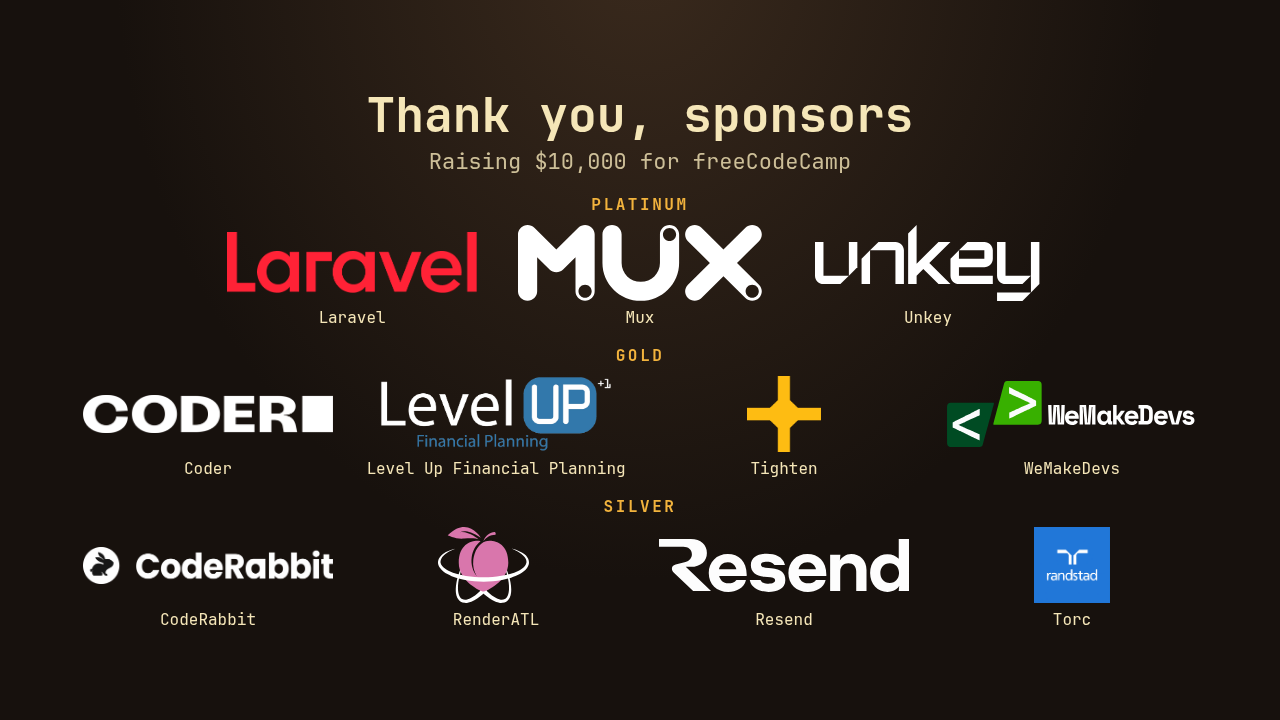
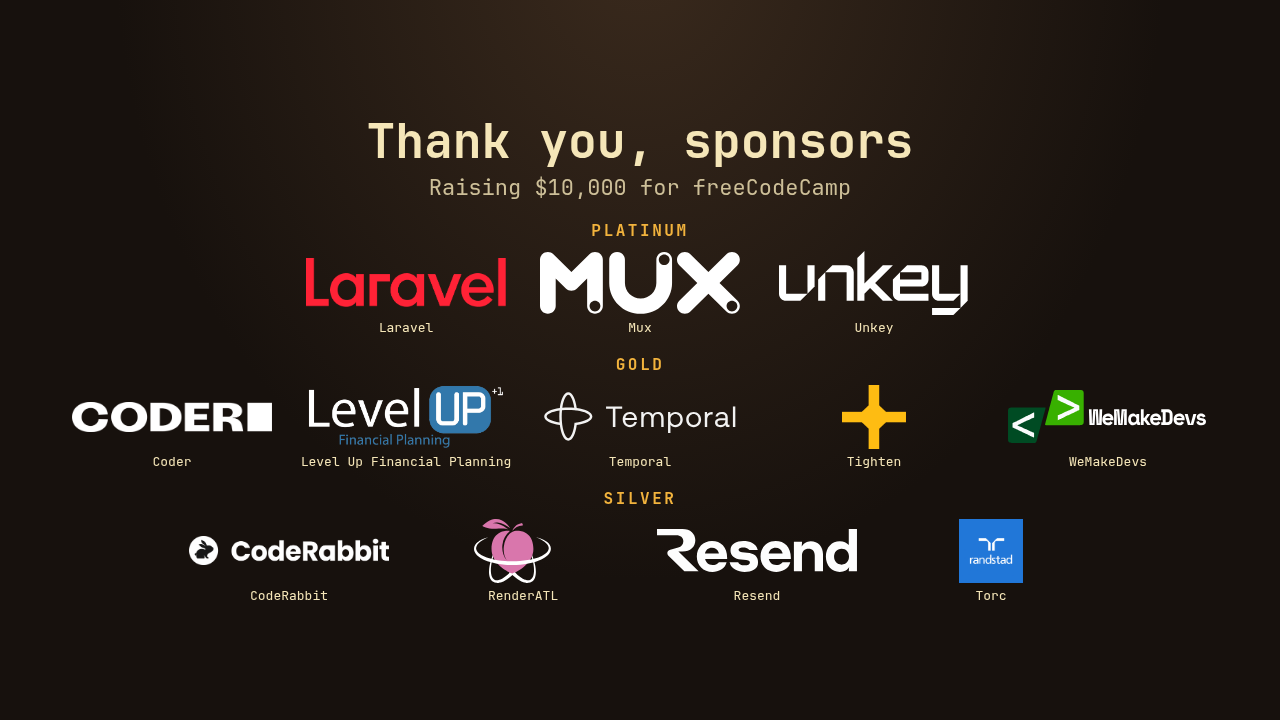
Add Temporal as Gold and set committed cash to $6,000. (#21)
Temporal gets the official wordmarks and an unbooked 30-minute block. Resend's cash amount is $500, and the site total is Unkey, Temporal, Coder, and Resend.

diff --git a/test/flow.test.js b/test/flow.test.js
@@ -3,7 +3,7 @@ import fs from "node:fs";
 import http from "node:http";
 import test from "node:test";
 import { createApp } from "../server/app.js";
-import { confirmKunal, confirmLuke, confirmRenderAtl, confirmUnkey, ensureAccessCodes, ensureWebsites } from "../server/domain.js";
+import { confirmKunal, confirmLuke, confirmRenderAtl, confirmResend, confirmUnkey, ensureAccessCodes, ensureWebsites } from "../server/domain.js";
 import { formatRange } from "../server/time.js";
 
 function assertSponsorCards(html) {
@@ -55,7 +55,7 @@ test("admin code keeps symbols, quotes, and spaces, and health hides the values"
   const codesRes = await fetch(`${base}/admin/api/sponsor-codes`, { headers: { "x-admin-code": "J@s0n-Admin!" } });
   assert.equal(codesRes.status, 200);
   const codesBody = await codesRes.json();
-  assert.equal(codesBody.sponsors.length, 11);
+  assert.equal(codesBody.sponsors.length, 12);
   for (const sponsor of codesBody.sponsors) {
     assert.match(sponsor.code, /^[abcdefghjkmnpqrstuvwxyz23456789]{8}$/);
   }
@@ -259,7 +259,7 @@ test("sponsor portal flow", async (t) => {
   assert.match(home.text, /Multistream/);
   assert.match(home.text, /freeCodeCamp/);
   assert.match(home.text, /\$10,000/);
-  assert.match(home.text, /\$4,000<\/b> of \$10,000 raised/);
+  assert.match(home.text, /\$6,000<\/b> of \$10,000 raised/);
   assert.match(home.text, /href="https:\/\/tilt\.fyi\/9va4uz7GEn"/);
   assert.match(home.text, />Donate</);
   assert.match(home.text, /Platinum[\s\S]*Laravel[\s\S]*Unkey[\s\S]*src="\/logos\/mux-wordmark-white\.svg"[\s\S]*Mux[\s\S]*Streaming gear bundle \(details TBA\)/);
@@ -307,7 +307,8 @@ test("sponsor portal flow", async (t) => {
   assert.match(home.text, /<strong>Unkey<\/strong><small>\$3,000 cash<\/small>/);
   assert.doesNotMatch(home.text, /NuPhy|mark-clear/);
   assert.match(home.text, /href="https:\/\/mux\.com"/);
-  assert.match(home.text, /<h3>Silver<\/h3>[\s\S]*src="\/logos\/resend-wordmark-white\.svg"[\s\S]*Resend[\s\S]*Cash donation/);
+  assert.match(home.text, /<h3>Silver<\/h3>[\s\S]*src="\/logos\/resend-wordmark-white\.svg"[\s\S]*Resend[\s\S]*\$500 cash/);
+  assert.match(home.text, /<h3>Gold<\/h3>[\s\S]*src="\/logos\/temporal-wordmark-light\.svg"[\s\S]*Temporal[\s\S]*\$1,500 cash[\s\S]*href="https:\/\/temporal\.io"/);
   assert.match(home.text, /href="https:\/\/resend\.com"/);
   assert.doesNotMatch(home.text, /Lucas Casarez|stock compensation|Guest:/);
   assertSponsorCards(home.text);
@@ -328,7 +329,7 @@ test("sponsor portal flow", async (t) => {
   assert.match(pitch.text, /Multistream/);
   assert.match(pitch.text, /freeCodeCamp/);
   assert.match(pitch.text, /\$10,000/);
-  assert.match(pitch.text, /\$4,000<\/b> of \$10,000 raised/);
+  assert.match(pitch.text, /\$6,000<\/b> of \$10,000 raised/);
   assert.match(pitch.text, /href="https:\/\/tilt\.fyi\/9va4uz7GEn"/);
   assert.match(pitch.text, /JetBrains\+Mono/);
   assert.match(pitch.text, /23K\+/);
@@ -345,7 +346,8 @@ test("sponsor portal flow", async (t) => {
   assert.doesNotMatch(pitch.text, /kunalstwt|class="badge">Kunal</);
   assert.doesNotMatch(pitch.text, /Lucas Casarez|stock compensation|Guest:/);
   assertSponsorCards(pitch.text);
-  assert.match(pitch.text, /id="tier-silver"[\s\S]*Open · No timed block[\s\S]*CodeRabbit[\s\S]*src="\/logos\/renderatl-mark-dark\.svg"[\s\S]*All-access RenderATL ticket[\s\S]*src="\/logos\/resend-wordmark-white\.svg"[\s\S]*Cash donation[\s\S]*Torc/);
+  assert.match(pitch.text, /id="tier-silver"[\s\S]*Open · No timed block[\s\S]*CodeRabbit[\s\S]*src="\/logos\/renderatl-mark-dark\.svg"[\s\S]*All-access RenderATL ticket[\s\S]*src="\/logos\/resend-wordmark-white\.svg"[\s\S]*\$500 cash[\s\S]*Torc/);
+  assert.match(pitch.text, /id="tier-gold"[\s\S]*Open · 30-minute block[\s\S]*src="\/logos\/temporal-wordmark-light\.svg"[\s\S]*\$1,500 cash/);
   assert.doesNotMatch(pitch.text, /davekiss|_christinacodes|Dave Kiss|Christina/);
   assert.match(pitch.text, /id="tier-community"[\s\S]*Open · No timed block/);
   assert.match(pitch.text, /MacBook Pro/);
@@ -425,7 +427,8 @@ test("sponsor portal flow", async (t) => {
   assert.match(desk.text, /id="sponsor-torc"[\s\S]*randstad\.png/);
   assert.match(desk.text, /id="sponsor-kunal"[\s\S]*WeMakeDevs[\s\S]*@kunalstwt[\s\S]*5 Keychron keyboards[\s\S]*wemakedevs-wordmark-light\.svg[\s\S]*https:\/\/www\.wemakedevs\.org\//);
   assert.match(desk.text, /id="sponsor-mux"[\s\S]*Mux[\s\S]*@davekiss[\s\S]*Dave Kiss[\s\S]*Streaming gear bundle \(details TBA\)[\s\S]*mux-wordmark-white\.svg[\s\S]*https:\/\/mux\.com/);
-  assert.match(desk.text, /id="sponsor-resend"[\s\S]*Resend[\s\S]*@_christinacodes[\s\S]*Christina[\s\S]*Cash donation[\s\S]*resend-wordmark-white\.svg[\s\S]*https:\/\/resend\.com/);
+  assert.match(desk.text, /id="sponsor-resend"[\s\S]*Resend[\s\S]*@_christinacodes[\s\S]*Confirmed Silver, \$500 cash[\s\S]*Christina[\s\S]*resend-wordmark-white\.svg[\s\S]*https:\/\/resend\.com/);
+  assert.match(desk.text, /id="sponsor-temporal"[\s\S]*Temporal[\s\S]*No block booked[\s\S]*\$1,500 cash[\s\S]*temporal-wordmark-light\.svg[\s\S]*https:\/\/temporal\.io/);
   const codeFile = await client().fetch("/admin/api/sponsor-codes", { headers: { "x-admin-code": "admin-test-code" } });
   assert.equal(codeFile.status, 200);
   for (const sponsor of JSON.parse(codeFile.text).sponsors) codes[sponsor.slug] = sponsor.code;
@@ -466,6 +469,10 @@ test("sponsor portal flow", async (t) => {
   assert.match(resendDoor.text, /<h1>Resend</);
   assert.doesNotMatch(muxDoor.text, /davekiss|Streaming gear/);
   assert.doesNotMatch(resendDoor.text, /christinacodes|Cash donation/);
+  await app.db.run("UPDATE sponsors SET prize_details = ? WHERE slug = ?", ["Cash donation", "resend"]);
+  await confirmResend(app.db);
+  const resendPrize = await app.db.get("SELECT prize_details FROM sponsors WHERE slug = ?", ["resend"]);
+  assert.equal(resendPrize.prize_details, "$500 cash");
 
   const direct = client();
   const directLogin = await direct.fetch("/portal/login", {

diff --git a/server/overlayhtml.js b/server/overlayhtml.js
@@ -96,9 +96,9 @@ export function wallHtml(groups) {
   const columns = groups.map((group) => {
     const items = group.sponsors.map((sponsor) => {
       const img = sponsor.logo
-        ? `<img alt="" src="${sponsor.logo}" style="width:250px;height:76px;object-fit:contain">`
-        : `<b style="font-size:26px;line-height:76px">${esc(sponsor.name)}</b>`;
-      return `<div style="width:270px;display:flex;flex-direction:column;align-items:center;justify-content:flex-end;gap:8px">${img}<span style="font-size:16px;line-height:1.15;text-align:center;white-space:nowrap">${esc(sponsor.name)}</span></div>`;
+        ? `<img alt="" src="${sponsor.logo}" style="width:200px;height:64px;object-fit:contain">`
+        : `<b style="font-size:22px;line-height:64px">${esc(sponsor.name)}</b>`;
+      return `<div style="width:216px;display:flex;flex-direction:column;align-items:center;justify-content:flex-end;gap:6px">${img}<span style="font-size:13px;line-height:1.15;text-align:center;white-space:nowrap">${esc(sponsor.name)}</span></div>`;
     }).join("");
     return `<section style="margin-top:18px"><div style="color:#f2b33d;letter-spacing:.16em;text-transform:uppercase;font-size:16px;font-weight:700">${esc(group.tier)}</div><div style="margin-top:10px;display:flex;flex-wrap:wrap;justify-content:center;align-items:flex-end;gap:14px 18px">${items}</div></section>`;
   }).join("");

diff --git a/server/domain.js b/server/domain.js
@@ -534,6 +534,14 @@ export async function confirmUnkey(db) {
   await db.run("UPDATE sponsors SET prize_details = ? WHERE id = ?", ["$3,000 cash", row.id]);
 }
 
+export async function confirmResend(db) {
+  const row = await db.get("SELECT id, prize_details FROM sponsors WHERE slug = ?", ["resend"]);
+  if (!row) return;
+  const current = String(row.prize_details || "").trim();
+  if (current && !/^cash donation$/i.test(current)) return;
+  await db.run("UPDATE sponsors SET prize_details = ? WHERE id = ?", ["$500 cash", row.id]);
+}
+
 export async function confirmRenderAtl(db) {
   const row = await db.get("SELECT id, tier, prize_details FROM sponsors WHERE slug = ?", ["renderatl"]);
   if (!row) return;
@@ -610,8 +618,9 @@ const SEED = [
     tier: "silver",
     contact_name: "Christina",
     x_handle: "_christinacodes",
-    prize_details: "Cash donation",
+    prize_details: "$500 cash",
   },
+  { slug: "temporal", name: "Temporal", tier: "gold", prize_details: "$1,500 cash" },
 ];
 
 export async function seedIfEmpty(db, secret, adminCode) {

diff --git a/server/campaign.js b/server/campaign.js
@@ -8,7 +8,7 @@ import { showcaseHtml } from "./brands.js";
 export const campaign = {
   cause: "freeCodeCamp",
   goal: 10000,
-  raised: 4000,
+  raised: 6000,
   tiltifyUrl: "https://tilt.fyi/9va4uz7GEn",
 };
 
@@ -26,6 +26,9 @@ export const prizes = [
   { item: "All-access RenderATL ticket", from: "RenderATL" },
   { item: "Keychron keyboards", from: "WeMakeDevs", count: 5 },
   { item: "$3,000 cash", from: "Unkey" },
+  { item: "$1,500 cash", from: "Temporal" },
+  { item: "$1,000 cash", from: "Coder" },
+  { item: "$500 cash", from: "Resend" },
   { item: "Work Louder keyboard", from: "CodeRabbit" },
   { item: "Amazon gift cards", from: "Torc" },
   { item: "Apple Watch Series 12 (GPS + Cellular) 42mm", from: "Level Up Financial Planning" },

diff --git a/server/brands.js b/server/brands.js
@@ -79,11 +79,16 @@ export const BRANDS = {
     hub: "/logos/resend-wordmark-white.svg",
     x: "https://x.com/_christinacodes",
   },
+  temporal: {
+    website: "https://temporal.io",
+    logos: ["public/logos/temporal-wordmark-light.svg", "public/logos/temporal-wordmark-dark.svg"],
+    hub: "/logos/temporal-wordmark-light.svg",
+  },
 };
 
 const SHOWCASE = [
   { tier: "Platinum", id: "platinum", slugs: ["laravel", "unkey", "mux"] },
-  { tier: "Gold", id: "gold", slugs: ["coder", "luke", "kunal", "tighten"] },
+  { tier: "Gold", id: "gold", slugs: ["coder", "luke", "kunal", "tighten", "temporal"] },
   { tier: "Silver", id: "silver", slugs: ["coderabbit", "torc", "renderatl", "resend"] },
 ];
 

diff --git a/packet/sponsor-packet.html b/packet/sponsor-packet.html
@@ -31,7 +31,7 @@
 <body>
 <h1>Jason Torres’ Christmas Birthday Livestream 🎄</h1>
 <p class="sub">Friday, Dec 18, 2026 · 2:00–8:00 PM ET · Live on X, YouTube, LinkedIn &amp; Twitch</p>
-<p class="goal">The prize lineup is locked. Cash from here goes to freeCodeCamp. $4,000 of $10,000 is already raised.</p>
+<p class="goal">The prize lineup is locked. Cash from here goes to freeCodeCamp. $6,000 of $10,000 is already raised.</p>
 <p>Hey! I’m throwing a cozy Christmas show for my birthday: holiday games, easy chats, and a giveaway every hour. The prizes below are set. New cash gifts are donated on Tiltify for freeCodeCamp.</p>
 
 <h2>Who’s watching</h2>

diff --git a/server/pages.js b/server/pages.js
@@ -410,7 +410,8 @@ const HINTS = {
   kunal: "Confirmed Gold as WeMakeDevs. X stays @kunalstwt. The public pages use the white wordmark.",
   renderatl: "Confirmed Silver. The giveaway is one all-access RenderATL ticket.",
   mux: "Confirmed Platinum. Dave Kiss stays on this card. The public pages use the large white wordmark.",
-  resend: "Confirmed Silver. Christina stays on this card. Cash amount is not set yet. Edit Prize or cash when it is.",
+  resend: "Confirmed Silver, $500 cash.",
+  temporal: "Confirmed Gold, $1,500 cash. The 30-minute block is open until a time is booked.",
 };
 
 function inviteMessage(sponsor, link) {

diff --git a/test/giveaway.test.js b/test/giveaway.test.js
@@ -29,6 +29,7 @@ test("ticker, rules, entry, and draw stay inside the stream rules", async (t) =>
   assert.match(ticker, /No donation needed to enter/);
   assert.match(ticker, /Open to US residents only/);
   assert.match(ticker, /Laravel/);
+  assert.match(ticker, /Temporal/);
   for (const line of bannerLines()) assert.ok(line.length < 200 && !line.includes("\n"));
   assert.equal(bannerLines().some((line) => /Platinum books an hour/i.test(line)), false);
   assert.match(bannerLines().join("\n"), /\/guests/);

diff --git a/server/app.js b/server/app.js
@@ -12,6 +12,7 @@ import {
   confirmKunal,
   confirmLuke,
   confirmRenderAtl,
+  confirmResend,
   confirmUnkey,
   ensureAccessCodes,
   ensureWebsites,
@@ -164,6 +165,7 @@ export async function createApp(env = {}) {
   await confirmKunal(db);
   await confirmRenderAtl(db);
   await confirmUnkey(db);
+  await confirmResend(db);
   await ensureWebsites(db);
   await ensureAccessCodes(db, secrets.sessionSecret, secrets.adminCode);
   const caps = { platinum: 0, gold: 0 };

diff --git a/README.md b/README.md
@@ -62,7 +62,7 @@ The grid is every half hour from 2:00 PM to 8:00 PM ET. Platinum books 1 hour (t
 
 Assets are due Friday, Nov 20, 2026. Everyone sends a logo, a website, talking points, an X handle, and a credit line. Logo files and the websites on file are listed in `docs/sponsors.md`. Platinum, Gold, and prize sponsors also send prize details and shipping. Silver and Community are cash for freeCodeCamp, so their form stops there. The desk shows how many of those fields are in.
 
-Seeded sponsors: Laravel, Unkey ($3,000 cash), and Mux (Platinum), Coder, Level Up Financial Planning (slug `luke`, Lucas Casarez, CFP®, @LukeCFPLevelUp, no earlier than 2:00 PM ET), WeMakeDevs (slug `kunal`, contact Kunal, @kunalstwt), and Tighten (Gold), CodeRabbit, Torc, RenderATL, and Resend (Silver). Mux’s contact is Dave Kiss. The prize is a streaming gear bundle, details TBA, edited in Prize or cash. Resend’s contact is Christina. The contribution is a cash donation with no amount yet, also edited in Prize or cash. RenderATL’s giveaway is one all-access ticket. A RenderATL row still marked prize is confirmed as Silver on startup. A Kunal row is renamed to WeMakeDevs on startup and keeps its slug. Tighten's mark and wordmark are already on file. WeMakeDevs, Mux, and Level Up Financial Planning use their white wordmarks on the dark public pages. Torc’s logo is the Randstad mark on purpose. Resend uses the official white wordmark from its brand kit. A missing seed sponsor is added on startup with its own access code. A website or name someone already saved is left alone.
+Seeded sponsors: Laravel, Unkey ($3,000 cash), and Mux (Platinum), Coder ($1,000 cash), Level Up Financial Planning (slug `luke`, Lucas Casarez, CFP®, @LukeCFPLevelUp, no earlier than 2:00 PM ET), WeMakeDevs (slug `kunal`, contact Kunal, @kunalstwt), Tighten, and Temporal ($1,500 cash) (Gold), CodeRabbit, Torc, RenderATL, and Resend ($500 cash) (Silver). Committed cash on the site is $6,000. Mux’s contact is Dave Kiss. The prize is a streaming gear bundle, details TBA, edited in Prize or cash. Resend’s contact is Christina. Temporal’s 30-minute Gold block is unassigned until someone books a time. RenderATL’s giveaway is one all-access ticket. A RenderATL row still marked prize is confirmed as Silver on startup. A Kunal row is renamed to WeMakeDevs on startup and keeps its slug. Tighten's mark and wordmark are already on file. WeMakeDevs, Mux, and Level Up Financial Planning use their white wordmarks on the dark public pages. Torc’s logo is the Randstad mark on purpose. Resend uses the official white wordmark from its brand kit. A missing seed sponsor is added on startup with its own access code. A website or name someone already saved is left alone.
 
 ## The public page
 
@@ -70,4 +70,4 @@ Seeded sponsors: Laravel, Unkey ($3,000 cash), and Mux (Platinum), Coder, Level 
 
 `/overlays` is the StreamYard pack. `/enter` is the giveaway, open to US residents only. `/rules` is the official rules. `/draw` is the admin drawing. `/live/goal`, `/live/alerts`, `/live/ticker`, and `/live/up-next` are screen-share boards. See `docs/overlays.md`. Set `TILTIFY_TOKEN` for the live Tiltify total. Without it, the goal board uses `raised` in `server/campaign.js`.
 
-`/` is the stream hub: Friday, December 18, 2026, 2:00–8:00 PM ET, the sponsor lineup, and one game per hour. `/sponsor` is the one-pager to send a company. No tier has a spot cap, so Platinum, Gold, Silver, and Community all stay open. Platinum still books a 1-hour block and Gold still books 30 minutes. `server/campaign.js` is the only file for the public numbers. Set `raised` (it starts at `4000`) and `goal`. The donate button uses `tiltifyUrl` (https://tilt.fyi/9va4uz7GEn). Sponsor login is a small link to `/portal`. `/admin` is not linked from the public page.
+`/` is the stream hub: Friday, December 18, 2026, 2:00–8:00 PM ET, the sponsor lineup, and one game per hour. `/sponsor` is the one-pager to send a company. No tier has a spot cap, so Platinum, Gold, Silver, and Community all stay open. Platinum still books a 1-hour block and Gold still books 30 minutes. `server/campaign.js` is the only file for the public numbers. Set `raised` (it starts at `6000`, the committed cash) and `goal`. The donate button uses `tiltifyUrl` (https://tilt.fyi/9va4uz7GEn). Sponsor login is a small link to `/portal`. `/admin` is not linked from the public page.

diff --git a/docs/sponsors.md b/docs/sponsors.md
@@ -1,6 +1,6 @@
 # Sponsor logos and websites
 
-Checked November 23, 2026. There is no logo URL column. A logo is either a file in the repo or bytes in the `logos` table. The website is the `url` column. Empty websites for the companies below are filled on startup. A website someone already saved is left alone. A row still named Kunal is renamed to WeMakeDevs on startup. The slug stays `kunal`. A missing seed sponsor, including Mux and Resend, is added on startup with its own access code. No tier has a spot cap. Platinum, Gold, Silver, and Community all stay open, and another sponsor can join any of them. Platinum still books a 1-hour block and Gold still books 30 minutes.
+Checked November 23, 2026. There is no logo URL column. A logo is either a file in the repo or bytes in the `logos` table. The website is the `url` column. Empty websites for the companies below are filled on startup. A website someone already saved is left alone. A row still named Kunal is renamed to WeMakeDevs on startup. The slug stays `kunal`. A missing seed sponsor, including Mux, Resend, and Temporal, is added on startup with its own access code. No tier has a spot cap. Platinum, Gold, Silver, and Community all stay open, and another sponsor can join any of them. Platinum still books a 1-hour block and Gold still books 30 minutes.
 
 Sites below were requested and answered over HTTPS. `unkey.com`, `coderabbit.ai`, `torc.dev`, and `renderatl.com` redirect to their `www` host. The stored link is the name that was requested.
 
@@ -16,6 +16,7 @@ Sites below were requested and answered over HTTPS. `unkey.com`, `coderabbit.ai`
 | CodeRabbit | https://coderabbit.ai | Present | `public/logos/coderabbit.png`. None in the database until someone uploads. |
 | Torc | https://torc.dev | Present, intentional | `public/logos/randstad.png` is the Randstad mark, and Jason confirmed that is Torc’s logo. The stream credits Torc. This is not a mismatched file. None in the database until someone uploads. |
 | RenderATL | https://renderatl.com | Present, on the hub | Confirmed Silver. The giveaway is one all-access RenderATL ticket. The hub and `/sponsor` are dark, so they use `public/logos/renderatl-mark-dark.svg`. Light files stay available: `public/logos/renderatl-wordmark-light.svg` and `public/logos/renderatl-mark-light.svg`. Dark wordmark: `public/logos/renderatl-wordmark-dark.svg`. None in the database until someone uploads. |
-| Resend | https://resend.com | Present, on the hub | Confirmed Silver. Contact is Christina, X @_christinacodes, admin only. Contribution is a cash donation with no amount yet. The number is the Prize or cash field on the admin card. Official files from the Resend brand kit: `public/logos/resend-wordmark-white.svg` on the dark hub and `/sponsor`, and `public/logos/resend-wordmark-black.svg` for light backgrounds. None in the database until someone uploads. |
+| Resend | https://resend.com | Present, on the hub | Confirmed Silver, $500 cash. Contact is Christina, X @_christinacodes, admin only. Official files from the Resend brand kit: `public/logos/resend-wordmark-white.svg` on the dark hub and `/sponsor`, and `public/logos/resend-wordmark-black.svg` for light backgrounds. None in the database until someone uploads. |
+| Temporal | https://temporal.io | Present, on the hub | Confirmed Gold, $1,500 cash. The 30-minute block is not booked yet. Official horizontal lockups from https://temporal.io/brand: `public/logos/temporal-wordmark-light.svg` (off-white `#F2F2F2`, for the dark hub and `/sponsor`) and `public/logos/temporal-wordmark-dark.svg` (Space Black `#141414`, for light backgrounds). The viewBox is cropped to the lockup with padding so it fills the same card slot as the other wordmarks. The paths and colors are the official files. None in the database until someone uploads. |
 
 The admin desk shows this same status on each sponsor: present or missing, the path, and how many logo rows are in the database. A sponsor edits Website on their portal. Jason can edit it from the sponsor card.
